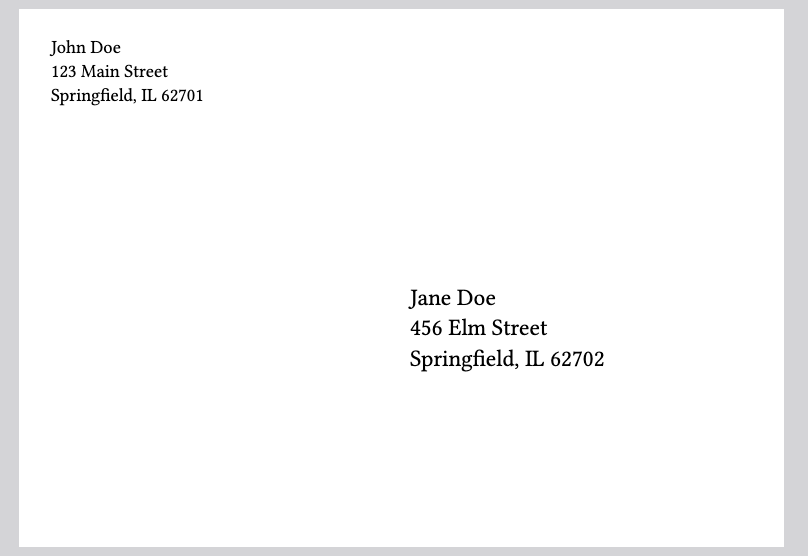
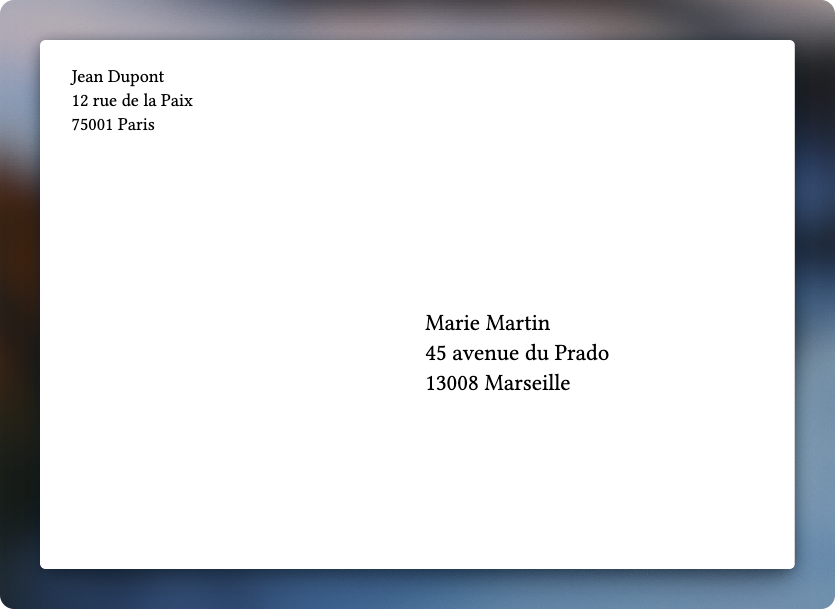
Add a french touch in default template + add an extra format example in README

Changed region(s): [[0.0, 0.0, 1.0, 1.0], [0.495, 0.5198, 0.7426, 0.6727]]

diff --git a/README.md b/README.md
@@ -1,10 +1,11 @@
 # Envelope Format
 
-A Quarto extension for generating print-ready envelope PDFs programmatically using Typst. Supports common envelope sizes with configurable sender and recipient addresses.
+A Quarto extension for generating print-ready envelope PDFs programmatically using Typst.
+Supports common envelope sizes with configurable sender and recipient addresses.
 
 ## Installing
 
-```bash
+``` bash
 quarto use template felixmil/quarto-envelope
 ```
 
@@ -14,25 +15,25 @@ This will install the extension and create an example `template.qmd` file you ca
 
 Set the format to `envelope-typst` in your document's YAML front matter and provide the sender and recipient addresses as arrays:
 
-```yaml
+``` yaml
 ---
 format:
   envelope-typst:
     envelope_type: "C6"
 sender:
-  - "John Doe"
-  - "123 Main Street"
-  - "Springfield, IL 62701"
+  - "Jean Dupont"
+  - "12 rue de la Paix"
+  - "75001 Paris"
 recipient:
-  - "Jane Doe"
-  - "456 Elm Street"
-  - "Springfield, IL 62702"
+  - "Marie Martin"
+  - "45 avenue du Prado"
+  - "13008 Marseille"
 ---
 ```
 
 Then render with:
 
-```bash
+``` bash
 quarto render template.qmd
 ```
 
@@ -40,27 +41,30 @@ Here's the output:
 
 [![](screenshot.png)](template.pdf)
 
+Here is another example with `envelope_type: DL`: 
+
+![](screenshot-dl.png)
+
 ## Options
 
 `sender` and `recipient` are top-level metadata keys (not under `format:`):
 
-| Key | Description |
-|---|---|
-| `sender` | Sender address lines (array) |
+| Key         | Description                     |
+|-------------|---------------------------------|
+| `sender`    | Sender address lines (array)    |
 | `recipient` | Recipient address lines (array) |
 
 Format options go under `format: envelope-typst:`:
 
-| Option | Description | Default |
-|---|---|---|
-| `envelope_type` | Envelope size (see supported types below) | `"DL"` |
-| `sender-fontsize` | Font size for the sender address | `11pt` |
-| `recipient-fontsize` | Font size for the recipient address | `14pt` |
-| `sender-width` | Width of the sender block | `30%` |
-| `recipient-width` | Width of the recipient block | `40%` |
-| `recipient-shift-x` | Horizontal offset for the recipient block | `-10%` |
-| `recipient-shift-y` | Vertical offset for the recipient block | `10%` |
-
+| Option               | Description                               | Default |
+|----------------------|-------------------------------------------|---------|
+| `envelope_type`      | Envelope size (see supported types below) | `"DL"`  |
+| `sender-fontsize`    | Font size for the sender address          | `11pt`  |
+| `recipient-fontsize` | Font size for the recipient address       | `14pt`  |
+| `sender-width`       | Width of the sender block                 | `30%`   |
+| `recipient-width`    | Width of the recipient block              | `40%`   |
+| `recipient-shift-x`  | Horizontal offset for the recipient block | `-10%`  |
+| `recipient-shift-y`  | Vertical offset for the recipient block   | `10%`   |
 
 ## Supported Envelope Types
 
@@ -68,24 +72,24 @@ You can specify `envelope_type` as a named size string or as a custom `[height, 
 
 ### Named sizes
 
-| Type | Dimensions (H × W) | Notes |
-|---|---|---|
-| `C4` | 229 × 324 mm | |
-| `C5` | 162 × 229 mm | |
-| `C6` | 114 × 162 mm | |
-| `DL` | 110 × 220 mm | Default |
-| `B4` | 250 × 353 mm | |
-| `B5` | 176 × 250 mm | |
-| `#10` | 105 × 241 mm | US #10 |
-| `#9` | 98 × 225 mm | US #9 |
-| `Monarch` | 98 × 190 mm | |
-| `A2` | 111 × 146 mm | |
+| Type      | Dimensions (H × W) |
+|-----------|--------------------|
+| `C4`      | 229 × 324 mm       |
+| `C5`      | 162 × 229 mm       |
+| `C6`      | 114 × 162 mm       |
+| `DL`      | 110 × 220 mm       |
+| `B4`      | 250 × 353 mm       |
+| `B5`      | 176 × 250 mm       |
+| `#10`     | 105 × 241 mm       |
+| `#9`      | 98 × 225 mm        |
+| `Monarch` | 98 × 190 mm        |
+| `A2`      | 111 × 146 mm       |
 
 ### Custom size
 
 Pass a two-element array `[height, width]` in mm:
 
-```yaml
+``` yaml
 format:
   envelope-typst:
     envelope_type:
@@ -93,19 +97,19 @@ format:
       - 185
 ```
 
-
 ## Batch Rendering
 
-To generate one envelope PDF per recipient from a CSV file, use the included `render_envelopes.R` script. It renders `template-batch.qmd` — a minimal template with no hardcoded addresses — injecting sender and recipient data at render time via `--metadata-file`.
+To generate one envelope PDF per recipient from a CSV file, use the included `render_envelopes.R` script.
+It renders `template-batch.qmd` — a minimal template with no hardcoded addresses — injecting sender and recipient data at render time via `--metadata-file`.
 
 ### CSV format
 
 Create a CSV file with the following columns:
 
-```csv
+``` csv
 first_name,last_name,adresse,city,zip
-Jean,Dupont,12 rue de la Paix,Paris,75001
-Marie,Martin,45 avenue des Fleurs,Lyon,69002
+Paul,Durant,12 rue de la Paix,Paris,75001
+Jeanne,Durand,45 avenue des Fleurs,Lyon,69002
 ```
 
 A sample file is provided at `data/recipients.csv`.
@@ -114,13 +118,13 @@ A sample file is provided at `data/recipients.csv`.
 
 Edit the `sender` variable at the top of `render_envelopes.R`, then run:
 
-```r
+``` r
 source("render_envelopes.R")
 ```
 
 Or from the terminal:
 
-```bash
+``` bash
 Rscript render_envelopes.R
 ```
 
@@ -130,7 +134,7 @@ One PDF per recipient will be written to `output/`, named `envelope_<first>_<las
 
 The script writes a temporary YAML file for each recipient containing the sender and recipient address arrays, then calls:
 
-```bash
+``` bash
 quarto render template-batch.qmd --output <name>.pdf --metadata-file <tmp>.yaml
 ```
 
